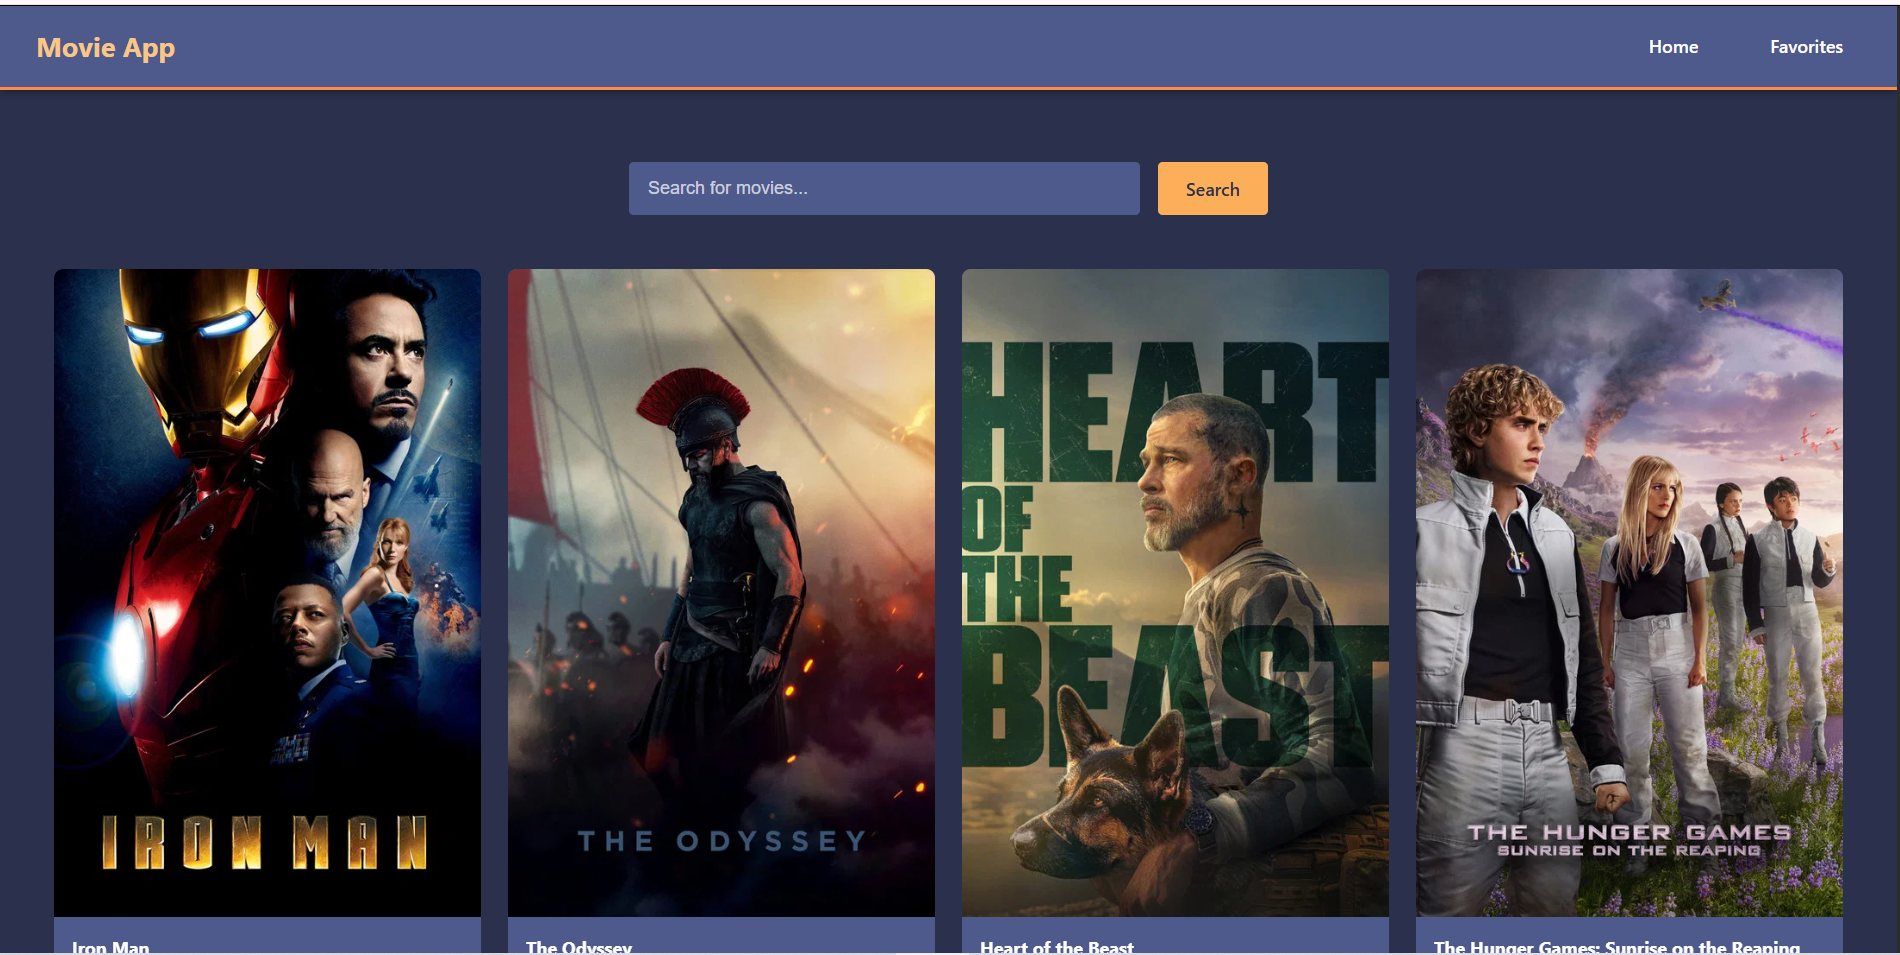
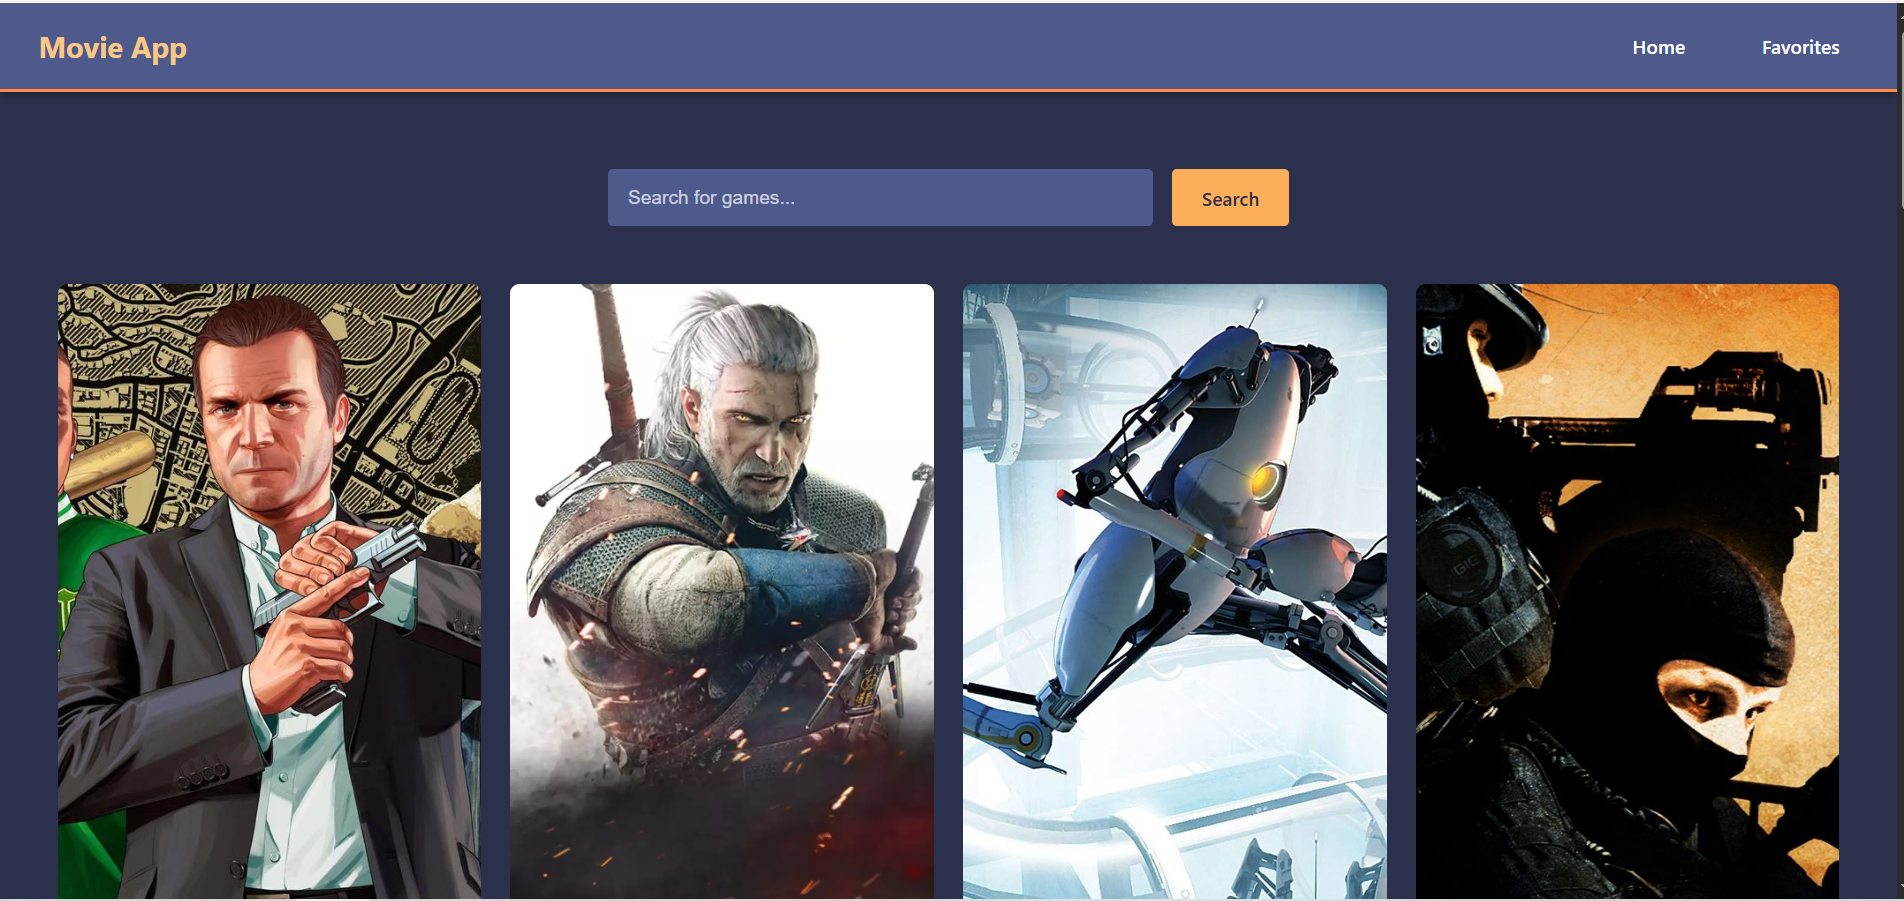
Initial commit: Games app with RAWG API

diff --git a/src/pages/Home.jsx b/src/pages/Home.jsx
@@ -1,27 +1,27 @@
-import MovieCard from "../components/MovieCard";
+import GameCard from "../components/GameCard";
 import { useState, useEffect } from "react";
 import "../css/Home.css";
-import { searchMovies, getPopularMovies } from "../services/api";
+import { searchGames, getPopularGames } from "../services/api";
 
 function Home() {
   const [searchQuery, setSearchQuery] = useState("");
-  const [movies, setMovies] = useState([]);
+  const [games, setGames] = useState([]);
   const [error, setError] = useState(null); //pour stocker n'importe quel erreur potentiel
   const [loading, setLoading] = useState(true); //pour stocker les état de chargement
 
   useEffect(() => {
-    const loadPopularMovies = async () => {
+    const loadPopularGames = async () => {
       try {
-        const popularMovies = await getPopularMovies();
-        setMovies(popularMovies);
+        const popularGames = await getPopularGames();
+        setGames(popularGames);
       } catch (e) {
         console.log(e);
-        setError("Failed to load movies");
+        setError("Failed to load games");
       } finally {
         setLoading(false);
       }
     };
-    loadPopularMovies();
+    loadPopularGames();
   }, []);
 
   const handleSearch = async (e) => {
@@ -32,12 +32,12 @@ function Home() {
 
     try {
       const results = query
-        ? await searchMovies(query)
-        : await getPopularMovies();
-      setMovies(results);
+        ? await searchGames(query)
+        : await getPopularGames();
+      setGames(results);
     } catch (e) {
       console.log(e);
-      setError("Failed to search movies");
+      setError("Failed to load games");
     } finally {
       setLoading(false);
     }
@@ -48,7 +48,7 @@ function Home() {
       <form onSubmit={handleSearch} className="search-form">
         <input
           type="text"
-          placeholder="Search for movies..."
+          placeholder="Search for games..."
           className="search-input"
           value={searchQuery}
           onChange={(e) => {
@@ -62,12 +62,12 @@ function Home() {
       {error && <div className="error-message">{error}</div>}
       {loading ? (
         <div className="loading">loading...</div>
-      ) : movies.length === 0 ? (
-        <div className="loading">No movies found for “{searchQuery}”</div>
+      ) : games.length === 0 ? (
+        <div className="loading">No games found for “{searchQuery}”</div>
       ) : (
-        <div className="movies-grid">
-          {movies.map((movie) => (
-            <MovieCard movie={movie} key={movie.id} />
+        <div className="games-grid">
+          {games.map((game) => (
+            <GameCard game={game} key={game.id} />
           ))}
         </div>
       )}

diff --git a/src/contexts/GameProvider.jsx b/src/contexts/GameProvider.jsx
@@ -1,5 +1,5 @@
 import { useState, useEffect } from "react";
-import { MovieContext } from "./MovieContext";
+import { GameContext } from "./GameContext";
 
 const loadFavorites = () => {
   try {
@@ -10,28 +10,28 @@ const loadFavorites = () => {
   }
 };
 
-export const MovieProvider = ({ children }) => {
+export const GameProvider = ({ children }) => {
   const [favorites, setFavorites] = useState(loadFavorites);
 
   useEffect(() => {
     localStorage.setItem("favorites", JSON.stringify(favorites));
   }, [favorites]);
 
-  const addToFavorites = (movie) => {
-    setFavorites((prev) => [...prev, movie]);
+  const addToFavorites = (game) => {
+    setFavorites((prev) => [...prev, game]);
   };
 
-  const removeFromFavorites = (movieId) => {
-    setFavorites((prev) => prev.filter((movie) => movie.id !== movieId));
+  const removeFromFavorites = (gameId) => {
+    setFavorites((prev) => prev.filter((game) => game.id !== gameId));
   };
 
-  const isFavorite = (movieId) => {
-    return favorites.some((movie) => movie.id === movieId);
+  const isFavorite = (gameId) => {
+    return favorites.some((game) => game.id === gameId);
   };
 
   const value = { favorites, addToFavorites, removeFromFavorites, isFavorite };
 
   return (
-    <MovieContext.Provider value={value}>{children}</MovieContext.Provider>
+    <GameContext.Provider value={value}>{children}</GameContext.Provider>
   );
 };

diff --git a/src/css/GameCard.css b/src/css/GameCard.css
@@ -1,4 +1,4 @@
-.movie-card {
+.game-card {
   position: relative;
   border-radius: 8px;
   overflow: hidden;
@@ -11,18 +11,18 @@
   flex-direction: column;
 }
 
-.movie-card:hover {
+.game-card:hover {
   transform: translateY(-5px);
   box-shadow: 0 8px 20px rgba(0, 0, 0, 0.45);
 }
 
-.movie-poster {
+.game-poster {
   position: relative;
   aspect-ratio: 2/3;
   width: 100%;
 }
 
-.movie-poster img {
+.game-poster img {
   width: 100%;
   height: 100%;
   object-fit: cover;
@@ -38,7 +38,7 @@
   color: var(--text-muted);
 }
 
-.movie-overlay {
+.game-overlay {
   position: absolute;
   inset: 0;
   background: linear-gradient(
@@ -54,8 +54,8 @@
   padding: 1rem;
 }
 
-.movie-card:hover .movie-overlay,
-.movie-card:focus-within .movie-overlay {
+.game-card:hover .game-overlay,
+.game-card:focus-within .game-overlay {
   opacity: 1;
 }
 
@@ -86,7 +86,7 @@
   color: var(--pumpkin-spice);
 }
 
-.movie-info {
+.game-info {
   padding: 1rem;
   flex: 1;
   display: flex;
@@ -94,23 +94,23 @@
   gap: 0.5rem;
 }
 
-.movie-info h3 {
+.game-info h3 {
   font-size: 1rem;
   margin: 0;
   color: var(--white);
 }
 
-.movie-info p {
+.game-info p {
   color: var(--apricot-cream);
   font-size: 0.9rem;
 }
 
 @media (max-width: 768px) {
-  .movie-card {
+  .game-card {
     font-size: 0.9rem;
   }
 
-  .movie-info {
+  .game-info {
     padding: 0.75rem;
   }
 

diff --git a/src/components/GameCard.jsx b/src/components/GameCard.jsx
@@ -1,0 +1,46 @@
+import "../css/GameCard.css";
+import { useGameContext } from "../contexts/GameContext";
+
+function GameCard({ game }) {
+  const { isFavorite, addToFavorites, removeFromFavorites } = useGameContext();
+
+  const favorite = isFavorite(game.id);
+
+  function onFavoriteClick(e) {
+    e.preventDefault();
+    if (favorite) {
+      removeFromFavorites(game.id);
+    } else {
+      addToFavorites(game);
+    }
+  }
+
+  return (
+    <div className="game-card">
+      <div className="game-poster">
+        {game.background_image ? (
+          <img src={game.background_image} alt={game.name} />
+        ) : (
+          <div className="poster-placeholder">No image</div>
+        )}
+        <div className="game-overlay">
+          <button
+            className={`favorite-btn ${favorite ? "active" : ""}`}
+            onClick={onFavoriteClick}
+            aria-label={favorite ? "Remove from favorites" : "Add to favorites"}
+          >
+            ❤
+          </button>
+        </div>
+      </div>
+      <div className="game-info">
+        <h3>{game.name}</h3>
+        <p>
+          {game.released?.split("-")[0]} · ⭐ {game.rating}
+        </p>
+      </div>
+    </div>
+  );
+}
+
+export default GameCard;

diff --git a/src/pages/Favorites.jsx b/src/pages/Favorites.jsx
@@ -1,16 +1,16 @@
 import "../css/Favorites.css";
-import { useMovieContext } from "../contexts/MovieContext";
-import MovieCard from "../components/MovieCard";
+import { useGameContext } from "../contexts/GameContext";
+import GameCard from "../components/GameCard";
 
 function Favorites() {
-  const { favorites } = useMovieContext();
+  const { favorites } = useGameContext();
   if (favorites.length > 0) {
     return (
       <div className="favorites">
         <h2>Your Favorites</h2>
-        <div className="movies-grid">
-          {favorites.map((movie) => (
-            <MovieCard movie={movie} key={movie.id} />
+        <div className="games-grid">
+          {favorites.map((game) => (
+            <GameCard game={game} key={game.id} />
           ))}
         </div>
       </div>
@@ -19,8 +19,8 @@ function Favorites() {
 
   return (
     <div>
-      <h2>No Favorite Movies Yet</h2>
-      <p>Start adding movies to your favorites and they will appear here</p>
+      <h2>No Favorite Games Yet</h2>
+      <p>Start adding games to your favorites and they will appear here</p>
     </div>
   );
 }

diff --git a/src/services/api.js b/src/services/api.js
@@ -1,13 +1,15 @@
-const API_KEY = import.meta.env.VITE_TMDB_API_KEY;
-const BASE_URL = "https://api.themoviedb.org/3";
+const API_KEY = import.meta.env.VITE_RAWG_API_KEY;
+const BASE_URL = "https://api.rawg.io/api";
 
-const fetchMovies = async (endpoint, params = {}) => {
-  const query = new URLSearchParams({ api_key: API_KEY, ...params });
+const fetchGames = async (endpoint, params = {}) => {
+  const query = new URLSearchParams({ key: API_KEY, page_size: 20, ...params });
   const response = await fetch(`${BASE_URL}${endpoint}?${query}`);
-  if (!response.ok) throw new Error(`TMDB error ${response.status}`);
+  if (!response.ok) throw new Error(`RAWG error ${response.status}`);
   const data = await response.json();
   return data.results;
 };
 
-export const getPopularMovies = () => fetchMovies("/movie/popular");
-export const searchMovies = (query) => fetchMovies("/search/movie", { query });
+export const getPopularGames = () =>
+  fetchGames("/games", { ordering: "-added" });
+
+export const searchGames = (query) => fetchGames("/games", { search: query });

diff --git a/src/App.jsx b/src/App.jsx
@@ -2,12 +2,12 @@ import "./css/App.css";
 import Home from "./pages/Home";
 import Favorites from "./pages/Favorites";
 import { Routes, Route } from "react-router-dom";
-import { MovieProvider } from "./contexts/MovieProvider";
+import { GameProvider } from "./contexts/GameProvider";
 import NavBar from "./components/NavBar.jsx";
 
 function App() {
   return (
-    <MovieProvider>
+    <GameProvider>
       <NavBar />
       <main className="main-content">
         <Routes>
@@ -15,7 +15,7 @@ function App() {
           <Route path="/favorites" element={<Favorites />} />
         </Routes>
       </main>
-    </MovieProvider>
+    </GameProvider>
   );
 }
 

diff --git a/src/contexts/GameContext.js b/src/contexts/GameContext.js
@@ -1,0 +1,11 @@
+import { createContext, useContext } from "react";
+
+export const GameContext = createContext(null);
+
+export const useGameContext = () => {
+  const context = useContext(GameContext);
+  if (!context) {
+    throw new Error("useGameContext must be used within a GameProvider");
+  }
+  return context;
+};

diff --git a/index.html b/index.html
@@ -4,7 +4,7 @@
     <meta charset="UTF-8" />
     <link rel="icon" type="image/svg+xml" href="/favicon.svg" />
     <meta name="viewport" content="width=device-width, initial-scale=1.0" />
-    <title>Movie App | Aya Ammi</title>
+    <title>Games App | Aya Ammi</title>
   </head>
   <body>
     <div id="root"></div>

diff --git a/src/components/NavBar.jsx b/src/components/NavBar.jsx
@@ -5,7 +5,7 @@ function NavBar() {
   return (
     <nav className="navbar">
       <div className="navbar-links">
-        <Link to="/">Movie App</Link>
+        <Link to="/">Game App</Link>
       </div>
       <div className="navbar-links">
         <Link to="/" className="nav-link">

diff --git a/src/css/Navbar.css b/src/css/Navbar.css
@@ -13,7 +13,7 @@
   gap: 2rem;
 }
 
-/* Le logo « Movie App » (premier groupe de liens) */
+/* Le logo « Game App » (premier groupe de liens) */
 .navbar-links:first-child a {
   font-size: 1.5rem;
   font-weight: 700;

diff --git a/src/css/Home.css b/src/css/Home.css
@@ -63,7 +63,7 @@
   padding: 2rem;
 }
 
-.movies-grid {
+.games-grid {
   display: grid;
   grid-template-columns: repeat(auto-fit, minmax(300px, 1fr));
   gap: 1.5rem;
